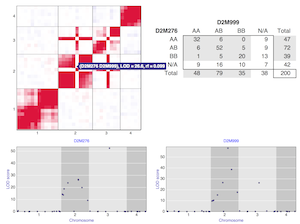
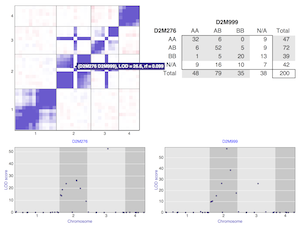
iplotRF: switch blue and red (red is now _bad_)

diff --git a/example/iplotRF.html b/example/iplotRF.html
@@ -1580,7 +1580,7 @@ iplotRF = function(rf_data, geno, chartOpts) {
   pointsize = (_ref14 = chartOpts != null ? chartOpts.pointsize : void 0) != null ? _ref14 : 2;
   pointcolor = (_ref15 = chartOpts != null ? chartOpts.pointcolor : void 0) != null ? _ref15 : "slateblue";
   pointstroke = (_ref16 = chartOpts != null ? chartOpts.pointstroke : void 0) != null ? _ref16 : "black";
-  colors = (_ref17 = chartOpts != null ? chartOpts.colors : void 0) != null ? _ref17 : ["slateblue", "white", "crimson"];
+  colors = (_ref17 = chartOpts != null ? chartOpts.colors : void 0) != null ? _ref17 : ["crimson", "white", "slateblue"];
   lodlim = (_ref18 = chartOpts != null ? chartOpts.lodlim : void 0) != null ? _ref18 : [0, 12];
   oneAtTop = (_ref19 = chartOpts != null ? chartOpts.oneAtTop : void 0) != null ? _ref19 : false;
   chartdivid = (_ref20 = chartOpts != null ? chartOpts.chartdivid : void 0) != null ? _ref20 : 'chart';
@@ -1751,7 +1751,8 @@ iplotRF = function(rf_data, geno, chartOpts) {
 
 <div id="chart" class="qtlcharts"></div>
 
-<p class="caption">Click on heatmap in top-left to view the corresponding two-locus genotype table to the right and LOD scores for selected markers, below. In subsequent cross-tabulation on right, hover over column and row headings to view conditional distributions. In panels below, hover over points to view marker names and click to refresh cross-tab and lower panels and selected marker.</p>
+<p class="caption">The heatmap displays LOD scores indicating linkage between all pairs of markers. Blue indicates large LOD with rf < 1/2; red indicates large LOD but with rf > 1/2. Click on the heatmap to view the corresponding two-locus genotype table to the right and LOD scores for selected markers, below. In the subsequent cross-tabulation on right, hover over column and row headings to view conditional distributions. In the panels below, hover over points to view marker names and click to refresh the cross-tab and lower panels with the selected marker.
+</p><hr/><p class="caption"><a style="text-decoration:none;" href="http://kbroman.org/qtlcharts">R/qtlcharts</a></p>
 
 <script type="text/javascript">
 chart_rfdata = {"rf":[[null,58.24,21.93,11.19,7.371,9.711,6.116,1.966,0.852,0.3418,2.243,1.307,0.02256,0.2873,0.0827,0.09384,0.1618,0.1746,0.2777,0.00736,0.1642,0.4012,0.06508,0.03338,0.0927,-1.573e-11,0.2555,0.1618,0.3846,0.3361,0.06618,-1.913e-11,0.1332,0.007754,0.02554,0.02714],[0.003683,null,21.55,13.12,6.966,12.09,5.339,1.568,0.2168,0.2909,0.9975,0.6964,0.005362,0.2082,0.1323,0.1356,0.7455,0.006386,0.1137,0.05744,0.05141,0.5546,0.3796,-3.493e-11,0.02943,0.1006,0.6636,-1.36e-11,0.2476,0.3527,0.02943,0.006294,0.00736,0.007004,0.0528,0.09511],[0.1237,0.1416,null,30.03,15.41,25.25,10.09,3.145,2.27,2.401,3.792,3.722,0.1466,0.0662,-2.037e-12,0.00658,0.008041,0.06199,0.4255,0.3474,0.7364,0.006785,0.1006,0.3077,0.1618,0.06509,0.062,-1.23e-11,0.1176,0.2079,0.007487,0.02994,0.08473,0.03542,0.3121,0.02801],[0.2228,0.22,0.09754,null,19.89,54.8,12.79,5.355,2.762,1.794,5.606,3.115,0.02227,0.2055,0.1373,0.7354,0.00736,0.02846,-2.226e-11,0.006204,0.02316,0.1356,0.05503,0.0583,0.7897,0.007119,0.3313,0.2909,0.7371,0.4739,0.02801,0.1571,-1.12e-11,0.006386,0.02347,0.1527],[0.2763,0.2775,0.1802,0.1626,null,18.77,19.21,6.758,4.544,3.87,8.06,5.363,0.09779,0.4681,0.2028,0.4674,0.09779,0.1137,0.2294,0.006386,0.1485,0.04824,0.07649,0.06199,0.05745,-2.376e-11,0.4259,0.1667,0.02847,0.03275,0.9659,0.6826,0.3261,0.4386,0.5074,0.02801],[0.2333,0.2215,0.1161,0.01852,0.1666,null,11.6,3.527,1.925,1.442,3.43,2.308,0.01888,0.5491,0.1248,0.6096,0.1119,0.02412,0.006481,0.00658,0.4384,0.005949,0.1196,0.1036,0.7906,0.1006,0.006785,0.2796,0.6544,0.3263,0.007754,-2.434e-11,0.1693,0.1196,0.09511,0.2638],[0.28,0.3059,0.2248,0.212,0.1523,0.2217,null,20.68,10.76,10.59,20.6,8.537,0.3032,0.6012,0.08369,0.1977,0.006681,0.1101,0.06298,0.1101,0.5806,0.05009,-1.572e-11,0.1068,0.4456,0.3471,0.0601,0.7364,0.6268,0.1966,0.1307,0.2825,0.007895,0.2639,0.2261,0.00736],[0.3652,0.3902,0.3378,0.2998,0.2513,0.3285,0.1323,null,20.44,25.6,43.7,17.45,0.3418,0.5557,0.1052,0.007119,0.02994,0.008041,0.7403,0.365,0.03046,0.1466,0.1899,0.501,0.4532,0.1157,0.1359,0.1138,0.02894,0.1217,0.208,0.0685,0.1156,0.5732,0.5931,0.1119],[0.4126,0.4586,0.3675,0.3552,0.3037,0.3744,0.2179,0.1256,null,41.9,27.53,48.3,0.0978,0.02379,0.005869,-2.871e-12,0.2437,0.3772,0.006032,0.6357,0.211,0.05427,0.07651,0.062,0.1102,-2.548e-11,0.062,0.05581,0.006204,0.008684,0.5706,0.1898,0.006681,0.2684,0.2639,0.1747],[0.4443,0.4524,0.3607,0.3822,0.3273,0.3922,0.2209,0.09482,0.03664,null,30.4,37.35,0.1036,0.02412,0.2991,0.0978,0.2364,0.5628,0.1052,1.045,0.9969,0.2513,0.1176,0.006681,-6.845e-12,0.1748,0.006681,0.02592,0.2477,0.06851,0.371,0.1932,0.007487,0.7657,0.172,0.02481],[0.3634,0.4132,0.3292,0.3018,0.2489,0.3382,0.1385,0.02885,0.09502,0.08025,null,22.8,0.05919,0.214,0.005568,0.00564,0.3904,0.007119,0.09779,0.2949,0.8251,0.02412,0.1176,0.1102,0.2364,0.02801,0.06009,0.2168,0.6751,0.2684,0.03542,0.03215,0.06199,0.1776,0.05503,0.1021],[0.3958,0.428,0.3325,0.3566,0.3013,0.3719,0.2571,0.158,0.01957,0.06195,0.1376,null,0.05352,-8.556e-12,-4.567e-12,-3.322e-12,-2.293e-11,1.052,0.006116,0.02316,0.2794,-1.832e-11,0.518,0.1084,0.299,0.1006,-6.127e-12,0.1486,0.00658,0.07502,0.6533,0.22,0.1617,0.5217,0.3556,0.2909],[0.513,0.4938,0.4663,0.4872,0.5281,0.4891,0.5496,0.5558,0.5281,0.4702,0.5227,0.4795,null,48.41,45.6,28.85,14.4,0.00658,9.688,7.656,5.401,2.758,0.1977,0.1549,-7.525e-12,0.06103,10.44,0.353,0.3079,0.1835,0.007004,0.00579,-9.194e-12,0.02592,0.005714,0.1594],[0.5471,0.5398,0.5254,0.5393,0.5595,0.5628,0.5686,0.5703,0.5137,0.4861,0.5409,0.5,0.01279,null,49.24,28.73,13.77,-1.341e-11,9.994,9.139,6.192,5.665,0.1507,0.06104,0.05504,-1.293e-11,12.92,0.4078,0.2084,0.1036,-1.179e-11,0.02347,0.02517,0.063,-8.465e-12,0.2365],[0.5238,0.5304,0.5,0.5316,0.5388,0.5287,0.5241,0.5302,0.5068,0.4511,0.5064,0.5,0.03464,0.01651,null,35,18.79,0.006482,10.43,9.688,7.12,4.346,0.852,0.3076,0.1466,0.006681,13.77,0.1068,0.09141,0.006117,0.1052,-4.05e-12,0.04544,0.276,0.1248,0.02446],[0.527,0.5312,0.5076,0.5759,0.5593,0.5633,0.5378,0.5082,0.5,0.4719,0.4935,0.5,0.1062,0.09733,0.081,null,23.75,0.006893,15.23,10.99,8.325,4.784,0.3312,0.02592,0.006482,-1.704e-11,18.99,0.6351,0.3123,0.1747,0.1594,0.005714,0.005362,-1.405e-11,0.07391,0.5772],[0.5371,0.5769,0.5093,0.5085,0.5281,0.4679,0.4923,0.5172,0.4535,0.4549,0.4442,0.5,0.1959,0.1948,0.1612,0.128,null,0.1931,26.56,26.13,19.85,9.345,0.3364,0.007895,0.1549,0.02943,52.45,0.1866,0.1085,0.006681,0.06403,0.1643,0.006482,0.006117,0.0202,0.05745],[0.54,0.5074,0.4762,0.5164,0.5326,0.5139,0.5316,0.5093,0.4387,0.429,0.4918,0.4089,0.5076,0.5,0.4925,0.5079,0.5442,null,0.1617,-2.294e-11,0.05141,0.05426,1.81,8.39,9.295,29.62,0.02714,15.51,6.831,8.092,0.00658,0.1156,0.7162,0.1506,0.778,0.4193],[0.5528,0.5326,0.4394,0.5,0.4562,0.4925,0.5241,0.5835,0.4931,0.4698,0.4719,0.493,0.248,0.2351,0.2461,0.1901,0.09942,0.4629,null,58.1,38.62,17.73,0.6002,0.02713,0.1667,0.1119,26.36,0.5091,0.03101,0.371,0.0685,0.05352,0.211,0.02446,0.005109,0.1667],[0.5085,0.522,0.4434,0.4929,0.4926,0.4924,0.4684,0.5595,0.4276,0.4022,0.4517,0.4867,0.2595,0.2384,0.248,0.2268,0.101,0.5,4.023e-37,null,40.67,18.53,0.216,0.03157,0.1119,0.1138,26.09,0.007119,0.00736,0.02757,0.2364,0.0528,0.006294,0.006117,0.04885,0.006386],[0.4623,0.4803,0.4239,0.4867,0.4659,0.4376,0.4269,0.5175,0.4597,0.4065,0.4153,0.4543,0.3077,0.289,0.2856,0.2721,0.1516,0.4803,0.05446,0.0539,null,28.45,0.2157,0.02554,0.02412,0.006032,22.45,0.006032,0.02517,0.05831,0.02592,-3.666e-12,0.0521,0.0521,0.1292,0.2168],[0.5573,0.5633,0.4922,0.5312,0.4815,0.4932,0.4808,0.5337,0.4792,0.4521,0.4861,0.5,0.3613,0.3037,0.3304,0.3224,0.2437,0.4792,0.1661,0.1568,0.1163,null,0.2875,0.006032,0.05662,0.1486,11.74,0.2168,0.05427,0.4601,-7.403e-12,0.006204,0.02412,0.02672,0.00505,-6.574e-12],[0.5249,0.5542,0.5289,0.4789,0.4707,0.4657,0.5,0.4565,0.4707,0.4663,0.4663,0.4268,0.5378,0.5346,0.5806,0.5541,0.5549,0.375,0.5754,0.5493,0.5492,0.5546,null,9.46,8.02,2.128,0.5597,0.3313,0.531,0.5099,0.0765,1.368,0.8924,0.5485,0.8929,1.671],[0.5192,0.5,0.4497,0.4777,0.5238,0.4702,0.5307,0.571,0.5238,0.5077,0.5316,0.4689,0.5356,0.5234,0.5503,0.5149,0.5091,0.2428,0.4844,0.4818,0.4853,0.5069,0.2204,null,47.47,9.659,0.007487,2.459,2.6,0.7196,0.1836,0.7645,0.2931,0.371,0.1101,0.3981],[0.5354,0.5169,0.4629,0.4187,0.522,0.4185,0.5634,0.5645,0.5316,0.5,0.5451,0.4511,0.5,0.5211,0.5337,0.4925,0.4644,0.2274,0.4618,0.4679,0.4861,0.5217,0.2483,0.01238,null,13.04,0.007004,2.978,1.744,0.5097,-2.003e-11,0.1119,0.4922,0.4925,0.1667,0.3529],[0.5,0.4711,0.4751,0.4918,0.5,0.4711,0.5566,0.5332,0.5,0.4599,0.5161,0.4711,0.4766,0.5,0.4923,0.5,0.5169,0.08447,0.4679,0.4673,0.5069,0.5341,0.3562,0.2071,0.1807,null,0.02943,6.81,3.688,4.251,-1.431e-11,0.0601,0.2003,0.2199,0.1667,0.3749],[0.5487,0.5753,0.5238,0.5541,0.5607,0.5078,0.523,0.5389,0.4762,0.5077,0.477,0.5,0.2212,0.1924,0.1925,0.1543,0.008095,0.5156,0.09816,0.09614,0.1337,0.2177,0.5789,0.5086,0.5081,0.5169,null,0.00736,0.2688,0.007618,0.00736,0.1119,-1.432e-11,0.1595,0.005568,0.007004],[0.5371,0.5,0.5,0.5476,0.5382,0.5458,0.5761,0.5327,0.4786,0.4851,0.5415,0.4659,0.4425,0.4417,0.4693,0.4278,0.5428,0.1896,0.428,0.4918,0.4931,0.4586,0.4459,0.3583,0.3396,0.2691,0.4915,null,20,20.35,0.1119,0.1618,1.055,0.8881,1.453,0.4937],[0.5625,0.5472,0.5338,0.5762,0.5164,0.5744,0.5714,0.5167,0.4929,0.4527,0.5767,0.4924,0.4496,0.4601,0.4737,0.4489,0.5312,0.2681,0.4822,0.5085,0.5145,0.4792,0.4327,0.3499,0.3782,0.3202,0.5513,0.142,null,43.12,0.0592,0.1036,0.112,0.2438,0.4743,0.06104],[0.5635,0.5574,0.5475,0.5601,0.5188,0.5533,0.545,0.5349,0.49,0.4738,0.5511,0.5287,0.458,0.4702,0.493,0.46,0.5077,0.2343,0.4396,0.4841,0.4777,0.4346,0.4278,0.4104,0.4278,0.2958,0.4912,0.1248,0.01411,null,0.1747,0.00835,0.06971,0.02714,0.223,0.03101],[0.4747,0.4831,0.5086,0.4839,0.5907,0.5089,0.5374,0.5476,0.5803,0.5604,0.5204,0.5816,0.5081,0.5,0.4698,0.4634,0.4755,0.4924,0.5262,0.5451,0.5149,0.5,0.5293,0.5421,0.5,0.5,0.4915,0.5321,0.4773,0.4599,null,30.96,9.951,11,7.667,5.005],[0.5,0.5072,0.5172,0.464,0.5772,0.5,0.5537,0.5262,0.5435,0.5442,0.5185,0.5501,0.5067,0.4865,0.5,0.4934,0.4623,0.5331,0.5205,0.5202,0.5,0.4929,0.6159,0.586,0.5321,0.523,0.4679,0.5371,0.4702,0.4904,0.067,null,20.83,18.67,12.04,8.39],[0.4619,0.5085,0.5324,0.5,0.5532,0.5388,0.5091,0.5332,0.5077,0.5086,0.4762,0.5371,0.5,0.4855,0.4826,0.5062,0.5075,0.5809,0.5403,0.5072,0.48,0.5139,0.5911,0.5557,0.5698,0.5458,0.5,0.5917,0.5321,0.5267,0.2202,0.13,null,47.09,36.67,13.15],[0.4911,0.5081,0.5204,0.5074,0.5624,0.5343,0.5503,0.5724,0.5511,0.5863,0.5407,0.566,0.5149,0.4759,0.4548,0.5,0.507,0.5346,0.5141,0.493,0.48,0.4846,0.5773,0.5604,0.5699,0.542,0.4634,0.5839,0.5466,0.5156,0.2094,0.1425,0.01614,null,40.43,21.38],[0.5147,0.5202,0.551,0.5135,0.5642,0.5273,0.5432,0.5677,0.5503,0.5394,0.5211,0.5509,0.5066,0.5,0.4713,0.5213,0.4884,0.5801,0.5059,0.4813,0.4703,0.5058,0.5912,0.5316,0.5382,0.5382,0.4936,0.6024,0.5603,0.5426,0.2512,0.2075,0.06834,0.05006,null,21.28],[0.4844,0.4727,0.4839,0.4649,0.5161,0.4498,0.5085,0.5321,0.5401,0.5143,0.4707,0.5476,0.5366,0.5452,0.5141,0.5659,0.522,0.5598,0.5382,0.5074,0.4586,0.5,0.6301,0.5646,0.5575,0.5537,0.4919,0.5626,0.5234,0.5178,0.2888,0.2343,0.1931,0.1281,0.1345,null]],"nmar":[12,10,8,6],"chrnames":["1","2","3","4"],"labels":["D1M815","D1M876","D1M805","D1M243","D1M102","D1M868","D1M288","D1M848","D1M941","D1M294","D1M796","D1M123","D2M750","D2M718","D2M772","D2M822","D2M276","D2M937","D2M999","D2M188","D2M669","D2M729","D3M338","D3M336","D3M205","D3M966","D3M160","D3M678","D3M187","D3M812","D4M662","D4M697","D4M401","D4M175","D4M474","D4M637"],"chr":["1","1","1","1","1","1","1","1","1","1","1","1","2","2","2","2","2","2","2","2","2","2","3","3","3","3","3","3","3","3","4","4","4","4","4","4"],"pos":[0,0.7573,17.17,27.44,29.25,48.33,67.33,85.29,89.91,95.82,101.9,104.5,0,2.314,4.273,13.73,26.9,28.83,39.28,39.59,48.55,62.85,0,19.05,19.96,38.89,48.15,67.31,85.37,88.03,0,8.584,22.68,25.11,29.41,43.49]};

diff --git a/assets/vignettes/userGuide.html b/assets/vignettes/userGuide.html
@@ -880,8 +880,8 @@ badorder &lt;- est.rf(badorder)
 </code></pre>
 
 <p>The main plot is a heatmap of the LOD scores indicating pairwise
-linkage; red indicates large LOD score with recombination fraction &lt;
-&frac12;; blue indicates large LOD score with recombination fraction &gt; &frac12;.
+linkage; blue indicates large LOD score with recombination fraction &lt;
+&frac12;; red indicates large LOD score with recombination fraction &gt; &frac12;.
 Hover over the heat map to view the LOD and recombination fraction
 values. Click to generate additional views: to the right, a
 cross-tabulation of two-locus genotypes for the pair of markers;
@@ -889,9 +889,10 @@ below, plots of the LOD scores for linkage, for the selected markers
 versus every other marker across the genome.</p>
 
 <p>Hover over the row and column headings in the cross-tab to view
-conditional distributions (genotypes as percentages of the
-non-missing observations; missing value as percentage of the total
-individuals).</p>
+conditional distributions (genotypes as percentages of the non-missing
+observations; missing value as percentage of the total individuals).
+Click on the points in the lower panels to refresh the cross-tab and
+lower panels with the selected marker.</p>
 
 <p>By default, the LOD scores in the heatmap are truncated at 12. This
 can be changed with the chart option <code>lodlim</code>, which takes an

diff --git a/assets/vignettes/chartOpts.html b/assets/vignettes/chartOpts.html
@@ -601,7 +601,7 @@ customization options for each chart.</p>
 
 <p><code>pointstroke = &quot;black&quot;</code> &mdash; stroke color for points in lower panels with LOD and rf</p>
 
-<p><code>colors = c(&quot;slateblue&quot;, &quot;white&quot;, &quot;crimson&quot;)</code> &mdash; colors for heat map</p>
+<p><code>colors = c(&quot;crimson&quot;, &quot;white&quot;, &quot;slateblue&quot;)</code> &mdash; colors for heat map</p>
 
 <p><code>lodlim = c(0, 12)</code> &mdash; range of LOD values to display; omit below 1st, truncate about 2nd</p>
 
